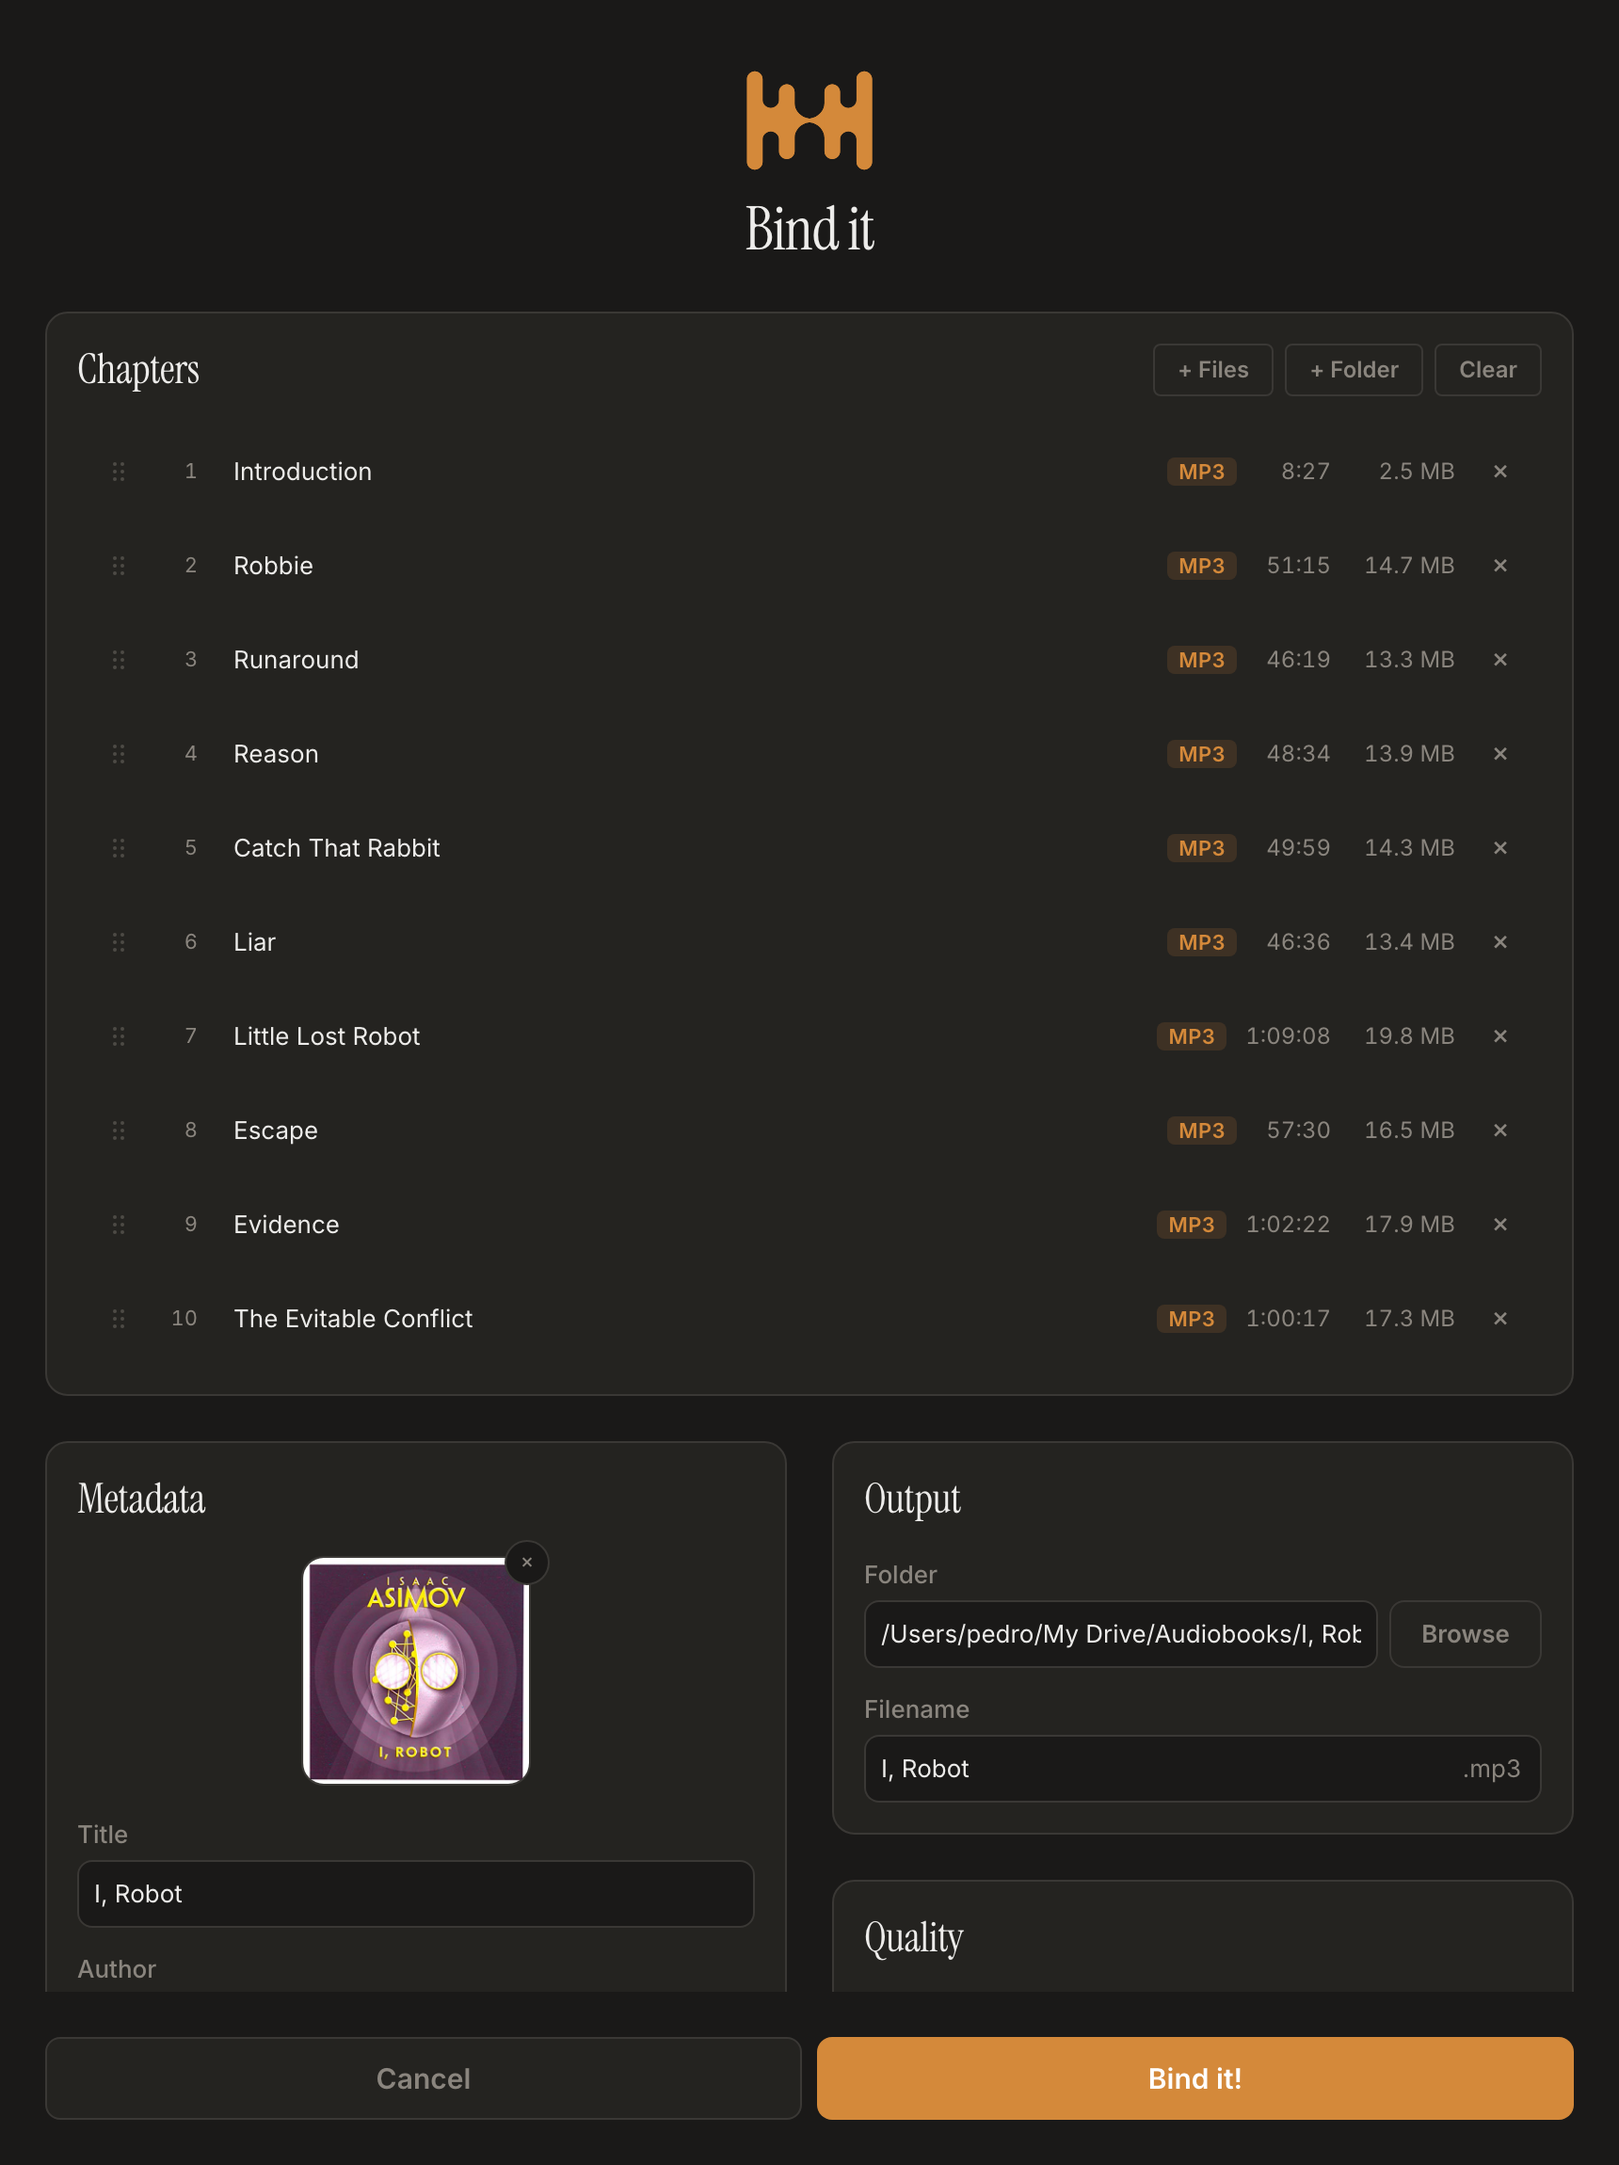
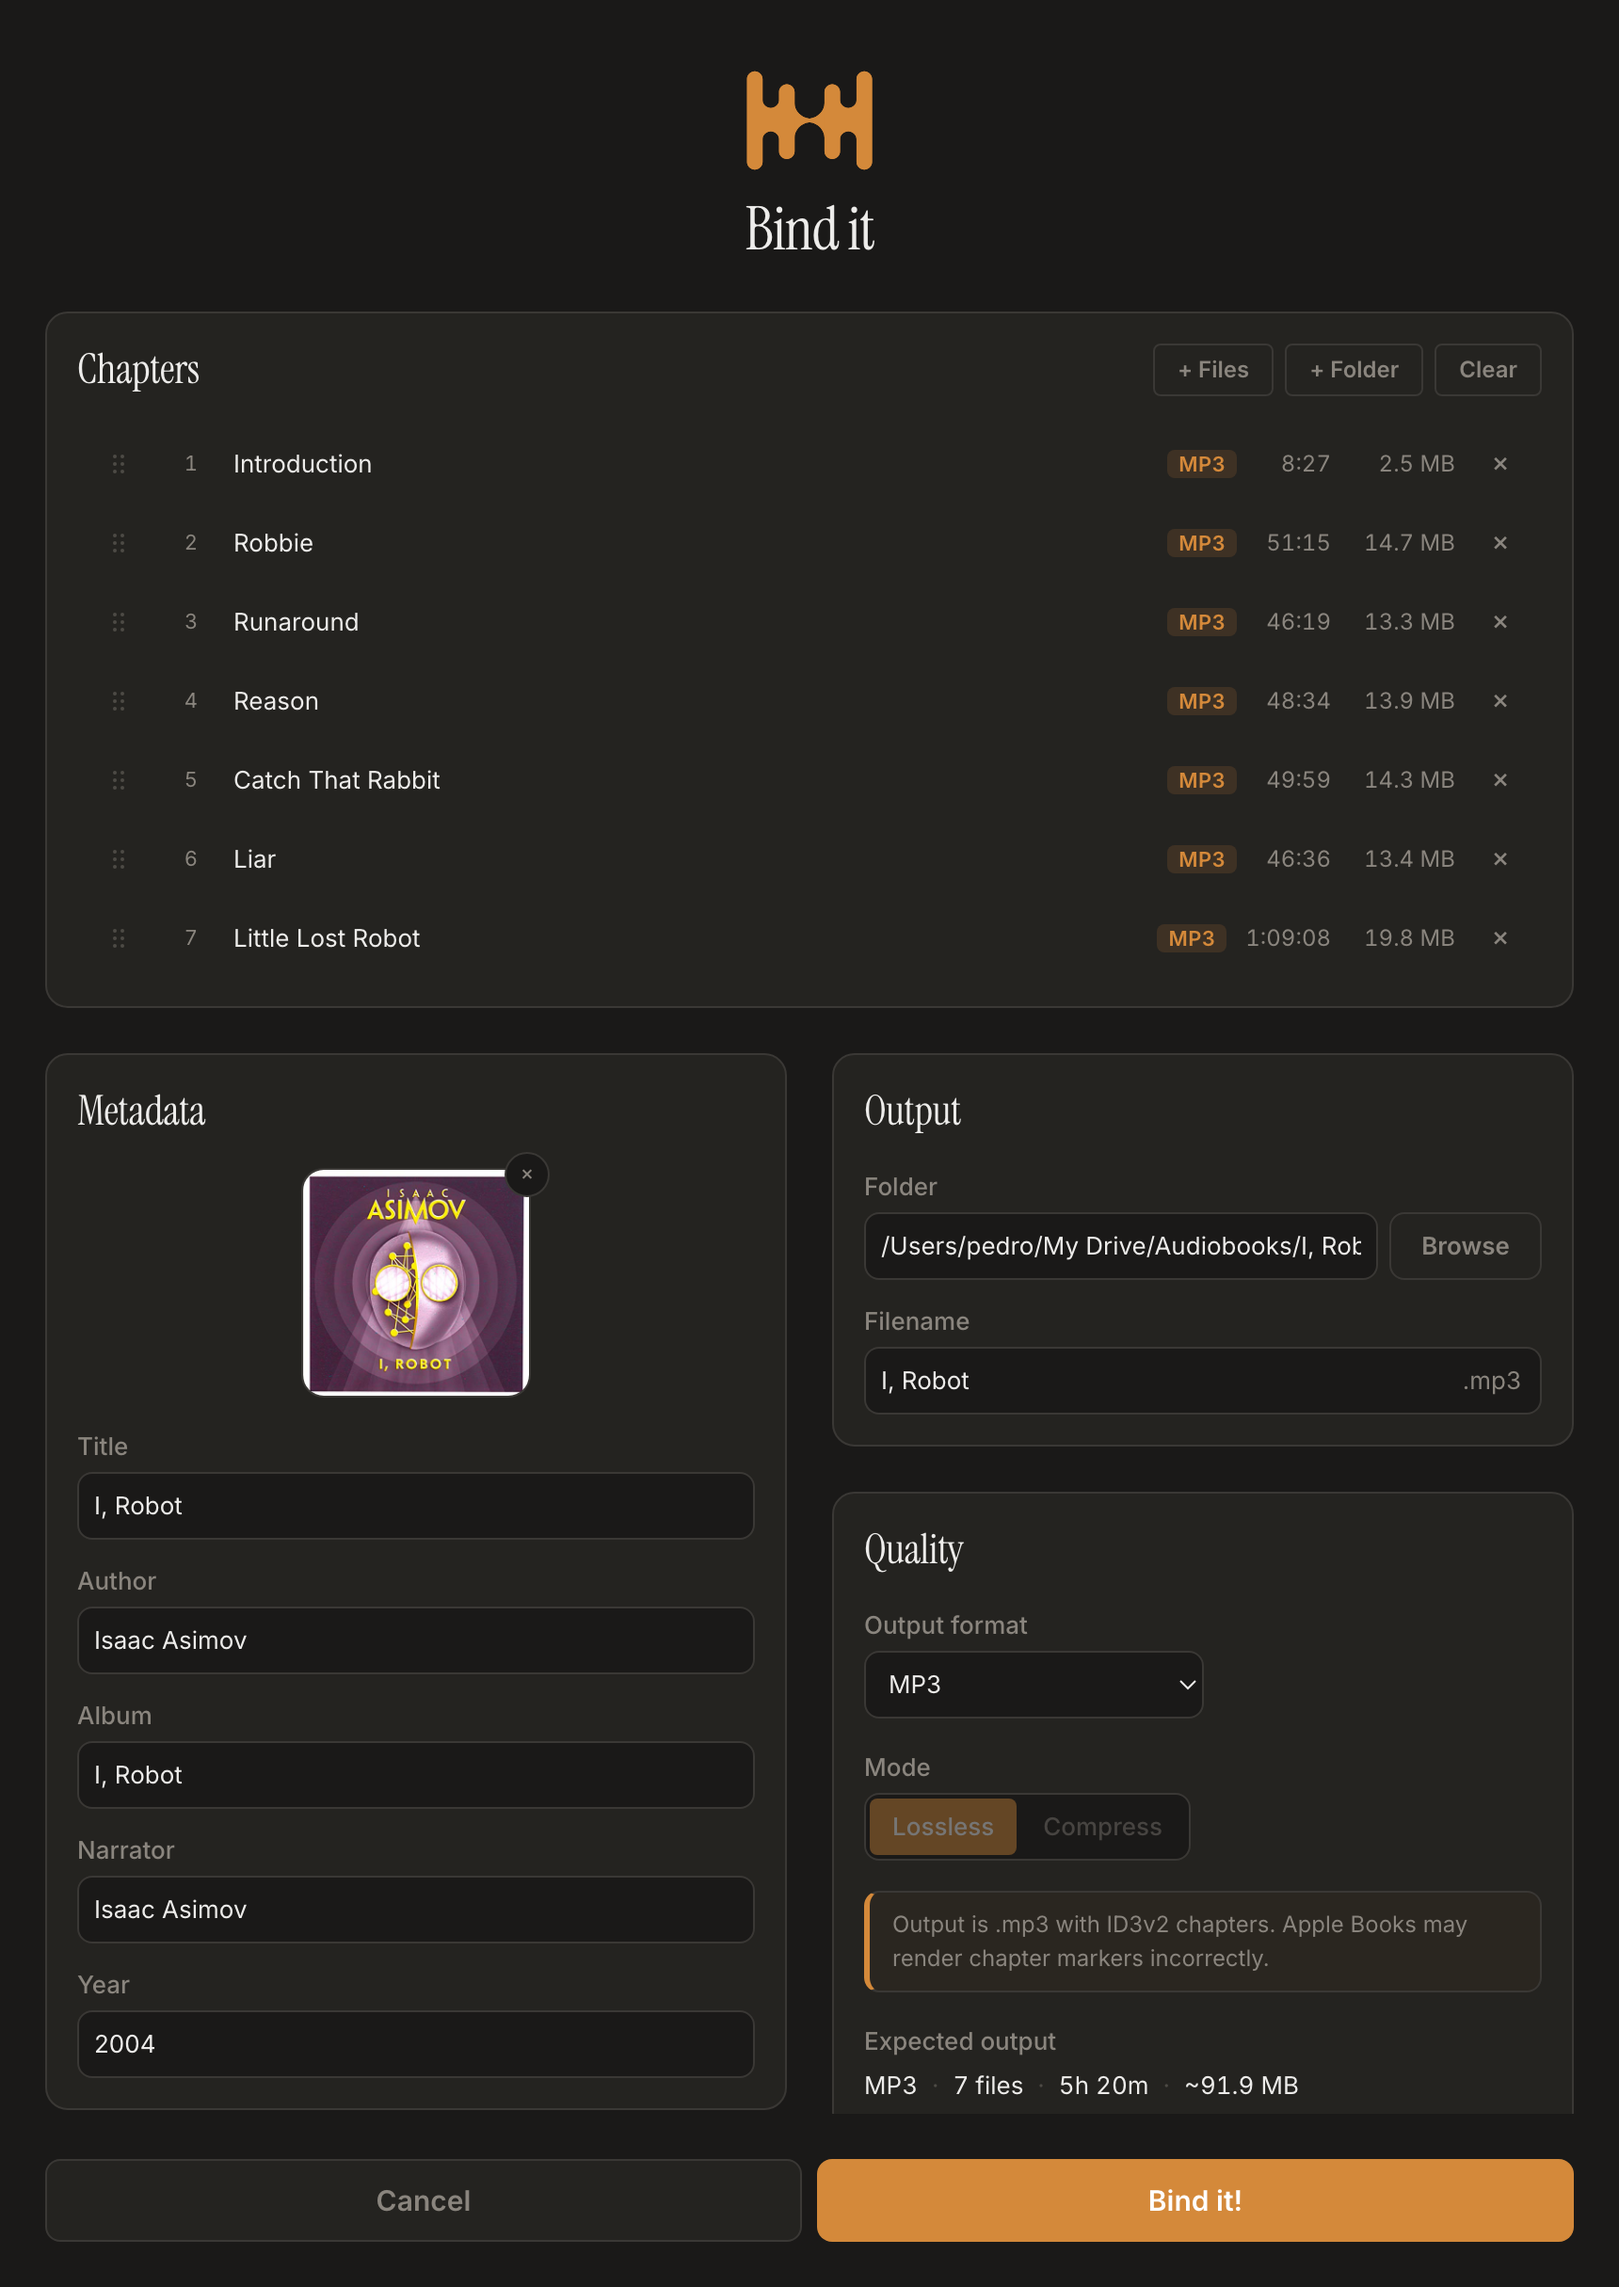
landing: show the whole app window in the hero shot
- Re-shot with 7 chapters instead of 10 and slightly tighter rows, so the
  entire UI fits: chapters, metadata, output, quality and the action bar.
- The shot is no longer cropped. It was previously object-fit: cover inside
  a 16:10 box, which sliced straight across the window instead of following
  its rounded edges; the radius now sits on the image itself so it rounds
  the window's own corners. The bottom fade is gone too, since it would
  have dimmed the "Bind it!" button.

The tighter row padding is an illustration-only tweak applied when
rendering the screenshot - the shipped app still uses its own spacing.

Claude-Session: https://claude.ai/code/session_01AAFCx8UhuFkVpg59fSWA9M

diff --git a/landing/index.html b/landing/index.html
@@ -75,7 +75,7 @@
       <figure class="hero-shot">
         <img class="reveal-load" data-reveal-delay="250" src="app-screenshot.png"
              alt="Bind it with an audiobook loaded: ten chapters listed with their durations and file sizes, cover art and title alongside."
-             loading="lazy" width="1720" height="2300">
+             loading="lazy" width="1720" height="2430">
       </figure>
     </section>
 
